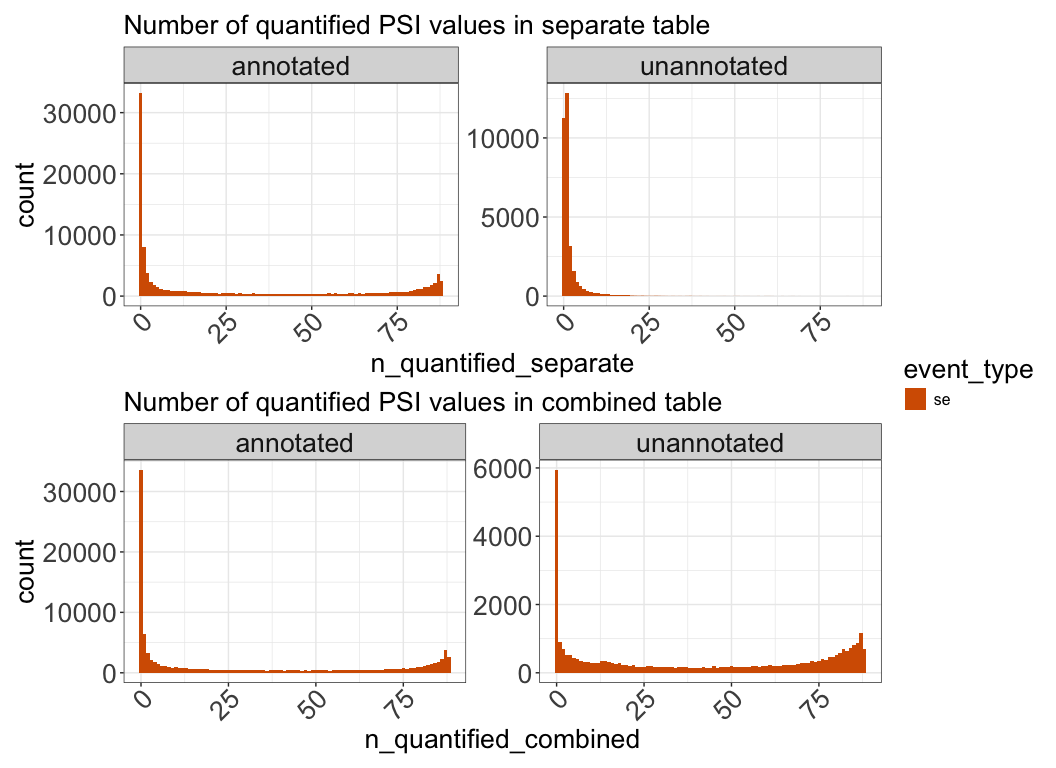
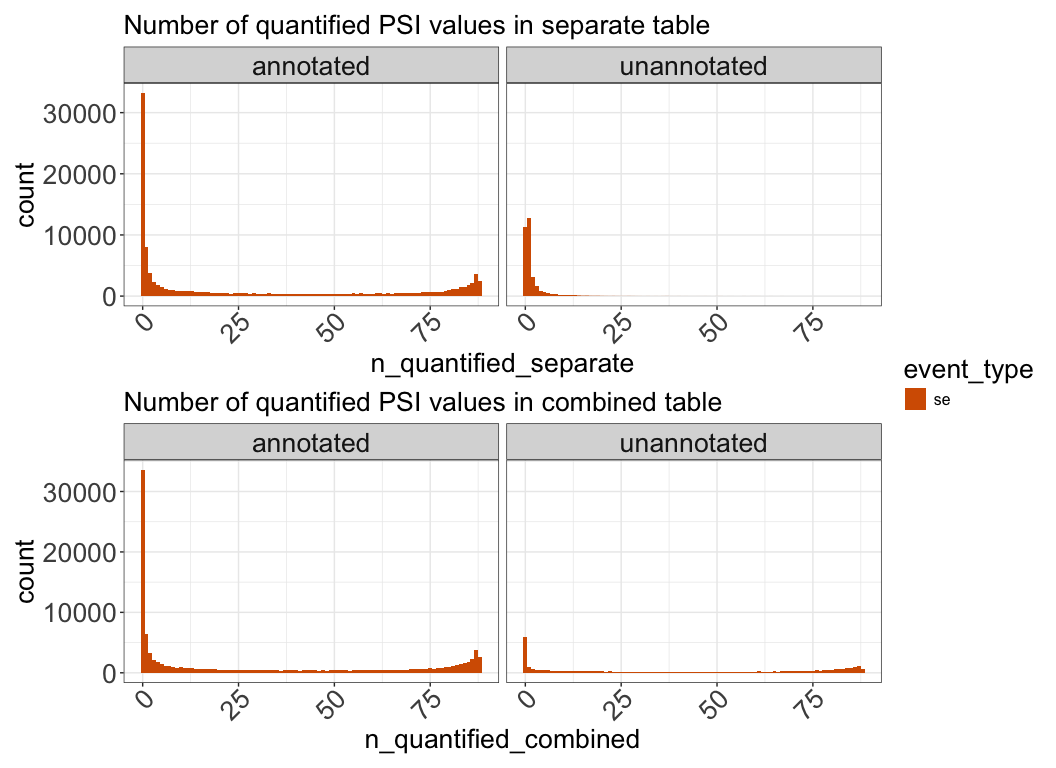
update markdown and plots

diff --git a/exploration/merging-psi-tables/target_pilot/compare_merged_psi_table.md b/exploration/merging-psi-tables/target_pilot/compare_merged_psi_table.md
@@ -1,6 +1,6 @@
 # Compare merged PSI table from TARGET pilot samples
 Cindy Liang (celiang@ucsc.edu)
-2026-05-13
+2026-05-24
 
 **Question:** Does merging separate splice tables cause us to lose out
 on the trustworthiness of unannotated events to an extent that it
@@ -20,16 +20,16 @@ with different negative values:
 
 - -2: NA values from merging the separate tables together (samples have
   a NA value after this step if there are genes dropped by Shiba for
-  those samples because there is only one transcript detected for that
-  gene)
+  those samples because there is only one transcript detected in the GTF
+  for that gene)
 
 - NA: NA values from merging the separate and combined tables. These NAs
   represent splice events that are only found in one analysis method
   (combined vs. separate)
 
 We are particularly interested in the impact merging separate tables has
-on unannotated event detection, since this is one novelty of using
-Shiba.
+on unannotated event detection, since this is why we chose to use Shiba
+over other tools.
 
 **Targeted questions this notebook is trying to answer:**
 
@@ -141,7 +141,7 @@ plot_event_summary <- function(
       x = "Annotation status of event",,
       y = "Number of events"
     ) +
-    facet_wrap(vars(label), scales = "free_y") +
+    facet_wrap(vars(label)) +
     scale_x_discrete(guide = guide_axis(angle = 45)) +
     plot_theme
 
@@ -158,7 +158,7 @@ number_events_dist <- function(
     # construct histogram
     ggplot(df,  aes(x = .data[[psi_type]], fill = event_type)) +
     geom_histogram(binwidth = 1) +
-    facet_wrap(vars(label), scales = "free_y") +
+    facet_wrap(vars(label)) +
     scale_fill_manual(values = cbPalette) +
     plot_theme +
     # make facet labels bigger
@@ -255,7 +255,7 @@ psi_values_lost_in_separate <- function(na_comparison_df) {
     dplyr::filter(match_category == "numeric PSI dropped in separate table",) |>
       ggplot(aes(combined, fill = event_type)) +
       geom_histogram(bins = 20) +
-      facet_wrap(vars(event_type, label), scales = "free_y") +
+      facet_wrap(vars(event_type, label)) +
     scale_fill_manual(values = cbPalette) +
       plot_theme +
       # make facet labels bigger
@@ -786,6 +786,14 @@ Figure 7
 
 </div>
 
+These histograms are now counting events that are lost (number of -1
+values). In the histogram of PSI values dropped due to low read counts
+in the combined table, most events that are dropped are dropped in
+almost all the samples. We see fewer events dropped due to low read
+counts in general in the separate tables, but this might be because the
+events that would have been dropped are missing from the separate are
+also missing due to the GTF (-2 NAs).
+
 Check PSI values dropped from insufficient read histograms for skipped
 exons
 
@@ -809,17 +817,19 @@ Figure 8
 
 </div>
 
-These histograms are now counting events that are lost (number of -1
-values). The same trend regarding unannotated events is seen here as in
-<a href="#fig-num_quantified_psi" class="quarto-xref">Figure 5</a>. We
-also see a higher number of annotated events dropped in all samples in
-the combined tables. I suspect the reason for these two observations is
+The same trend regarding unannotated events is seen here as in
+<a href="#fig-num_low_read_na" class="quarto-xref">Figure 7</a>. We also
+see a higher number of annotated events dropped in all samples in the
+combined tables. I suspect the reason for these two observations is
 because the combined tables have a larger dictionary of possible splice
 events due to the merged GTF. So all these splice events not found in
 the separate tables have the potential to have -1 values.
 
-Histogram of events dropped due to insufficient transcript
-representation
+Check histograms of events dropped in separate tables (-2 values). These
+histograms plot the number of splice events dropped in splice tables
+made form the separate Shiba runs method. These events should correspond
+to splice events that only have one transcript annotated in the sample’s
+GTF and so are dropped by Shiba.
 
 ``` r
 number_events_dist(all_events, "n_dropped_separate", "# PSIs dropped due to insufficient transcripts in separate table")
@@ -829,44 +839,44 @@ number_events_dist(all_events, "n_dropped_separate", "# PSIs dropped due to insu
     (`stat_bin()`).
 
 ``` r
-# I do not plot this for the combined table because they are all 0 (we only define what is dropped due to insufficient transcript representation based off what is missing when individual separate tables are merged)
+# I do not plot this for the combined table because they are all 0 (we only define what is dropped in the separate tables based off what is missing when individual separate tables are merged)
 ```
 
-<div id="fig-num_low_transcript_na">
+<div id="fig-num_separate_table_na">
 
 <img
-src="compare_merged_psi_table_files/figure-commonmark/fig-num_low_transcript_na-1.png"
-id="fig-num_low_transcript_na" />
+src="compare_merged_psi_table_files/figure-commonmark/fig-num_separate_table_na-1.png"
+id="fig-num_separate_table_na" />
 
 Figure 9
 
 </div>
 
-Check histograms of events dropped due to low transcript diversity in
-skipped exons
+Histogram of events missing in separate tables for skipped exon events
 
 ``` r
 all_events |>
   dplyr::filter(event_type == "se") |>
-  number_events_dist("n_dropped_separate", "# PSIs dropped due to insufficient transcripts in separate table")
+  number_events_dist("n_dropped_separate", "# PSIs dropped in separate table")
 ```
 
     Warning: Removed 7791 rows containing non-finite outside the scale range
     (`stat_bin()`).
 
-<div id="fig-num_low_transcript_na_se">
+<div id="fig-num_separate_table_na_se">
 
 <img
-src="compare_merged_psi_table_files/figure-commonmark/fig-num_low_transcript_na_se-1.png"
-id="fig-num_low_transcript_na_se" />
+src="compare_merged_psi_table_files/figure-commonmark/fig-num_separate_table_na_se-1.png"
+id="fig-num_separate_table_na_se" />
 
 Figure 10
 
 </div>
 
-Similar to
-<a href="#fig-num_low_read_na" class="quarto-xref">Figure 7</a>, these
-histograms represent the number of events lose (-2 events). I mainly see
-that these missing values are present more in the unannotated events,
-where most samples have the same event dropped. I suspect this is due to
-the unannotated event only being present in one or two samples.
+I mainly see that these missing values are present more in the
+unannotated events, where the event is only quantified in a small number
+of samples. In both
+<a href="#fig-num_separate_table_na" class="quarto-xref">Figure 9</a>
+and <a href="#fig-num_separate_table_na_se"
+class="quarto-xref">Figure 10</a>, the events that are dropped are
+absent in most samples.
